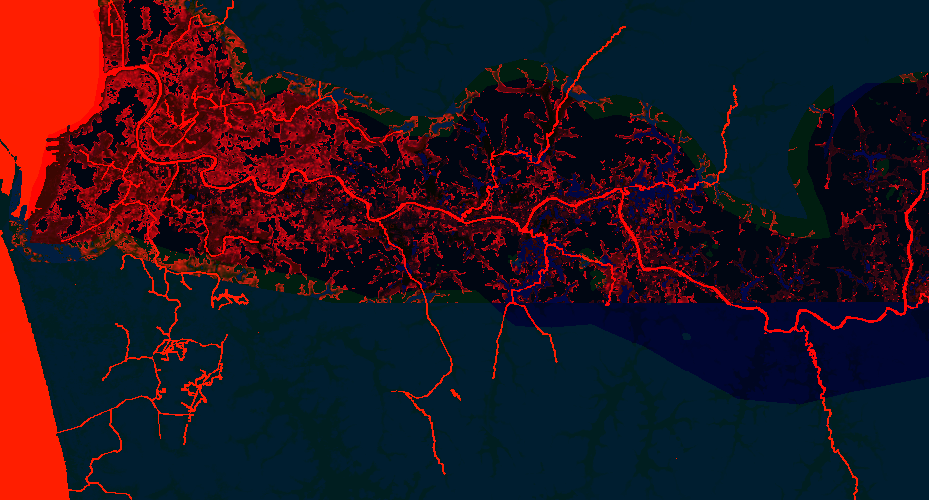
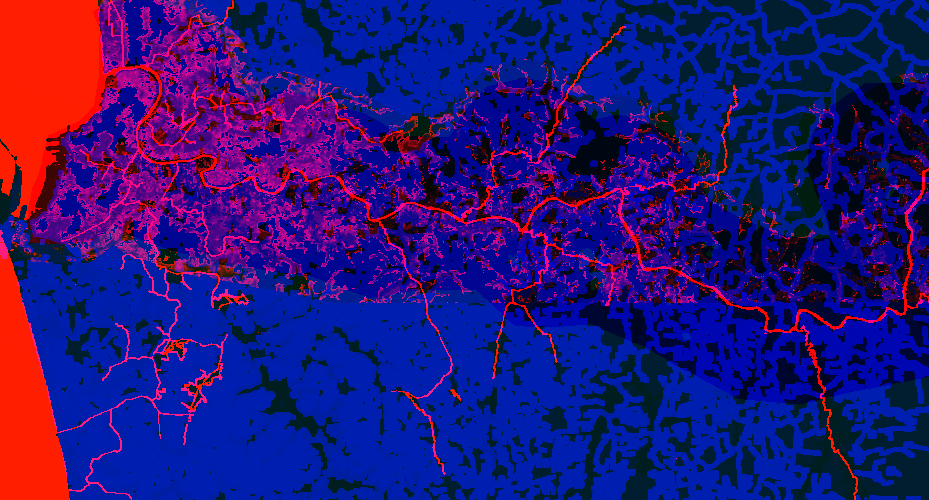
Flood test map: water you can see on buildings, and an estimated depth on tap. Why: the owner wants to see the water line on houses when he zooms in. From zoom 15.5 each flooded 30 m cell gets a translucent blue block whose height is the estimated depth (so a 5 m house stands in water up to its grou

diff --git a/app/[lang]/lab/flood-3d/Flood3dMap.tsx b/app/[lang]/lab/flood-3d/Flood3dMap.tsx
@@ -10,6 +10,7 @@ import { loadBaseStyle } from "./mapStyle";
 import { GLASS, ICON_BTN, Seg, SectionTitle, SwitchRow } from "./ui";
 import { makeT, type Lang } from "./strings";
 import { ReplayCard, replayTime, type ReplayData } from "./Replay";
+import { depthM, depthExpr, wetColorExpr } from "./depth";
 import { ReportPanel, type CellInfo, type RepPos } from "./ReportPanel";
 import { chanceClass, gaugeSpread, hanwellaMToNagFt, pWet, type Calibration, type Chance } from "./chance";
 
@@ -59,7 +60,8 @@ export default function Flood3dMap({ towns = [], gauges = [], lang = "en" }: { t
   const box = useRef<HTMLDivElement>(null);
   const mapRef = useRef<MlMap | null>(null);
   const popRef = useRef<Popup | null>(null);
-  const grid = useRef<{ L: Float32Array; hw: Float32Array; cls: Uint8Array; band: Uint8Array; river: Uint8Array; unc: Uint8Array; wet: Uint8Array; w: number; h: number } | null>(null);
+  const cellsShown = useRef(false);
+  const grid = useRef<{ L: Float32Array; hw: Float32Array; cls: Uint8Array; band: Uint8Array; river: Uint8Array; unc: Uint8Array; wet: Uint8Array; built: Uint8Array; w: number; h: number } | null>(null);
   const meta = useRef<Meta | null>(null);
   const cv = useRef<{ out: HTMLCanvasElement; img: ImageData; lut: Uint8ClampedArray } | null>(null);
   const up = useRef<{ W2: number; H2: number; L2: Float32Array; hw2: Uint8Array; fl: Uint8Array; cls2: Uint8Array; band2: Uint8Array } | null>(null);
@@ -68,6 +70,8 @@ export default function Flood3dMap({ towns = [], gauges = [], lang = "en" }: { t
   const roadsRef = useRef(true);
   const addLocalRef = useRef<(() => void) | null>(null);
   const paintRoadsRef = useRef<((lv: number) => void) | null>(null);
+  const paintDepthRef = useRef<((lv: number) => void) | null>(null);
+  const refreshCellsRef = useRef<(() => void) | null>(null);
 
   const [ready, setReady] = useState(false);
   // Full screen: the browser's Fullscreen API where it exists (desktop, Android); a fixed full-viewport layer otherwise (iPhone Safari
@@ -251,6 +255,33 @@ export default function Flood3dMap({ towns = [], gauges = [], lang = "en" }: { t
   }, []);
 
   useEffect(() => { paintRoadsRef.current = paintRoads; });
+  const paintDepth = useCallback((lv: number) => {
+    const map = mapRef.current;
+    if (!map || !map.getLayer("f3d-depth")) return;
+    map.setPaintProperty("f3d-depth", "fill-extrusion-height", depthExpr(lv) as never);
+    map.setPaintProperty("f3d-depth", "fill-extrusion-color", wetColorExpr(lv) as never);
+  }, []);
+  useEffect(() => { paintDepthRef.current = paintDepth; });
+  // the cells under the view (grid cells that can flood at all), rebuilt after each move at street zoom
+  const refreshCells = useCallback(() => {
+    const map = mapRef.current, g = grid.current, m = meta.current;
+    const src = map?.getSource("f3d-cells") as GeoJSONSource | undefined;
+    if (!map || !g || !m || !src) return;
+    if (map.getZoom() < 15.5) { if (cellsShown.current) { src.setData({ type: "FeatureCollection", features: [] }); cellsShown.current = false; } return; }
+    const b = map.getBounds(), padX = (b.getEast() - b.getWest()) * 0.25, padY = (b.getNorth() - b.getSouth()) * 0.25, deg = m.png.deg;
+    const x0 = Math.max(0, Math.floor((b.getWest() - padX - m.png.west) / deg)), x1 = Math.min(g.w - 1, Math.floor((b.getEast() + padX - m.png.west) / deg));
+    const y0 = Math.max(0, Math.floor((m.png.north - (b.getNorth() + padY)) / deg)), y1 = Math.min(g.h - 1, Math.floor((m.png.north - (b.getSouth() - padY)) / deg));
+    const feats: unknown[] = [];
+    for (let y = y0; y <= y1 && feats.length < 9000; y++) for (let x = x0; x <= x1; x++) {
+      const i = y * g.w + x, L = g.L[i];
+      if (g.river[i] || g.unc[i] || g.wet[i] || !Number.isFinite(L) || L > 12) continue;
+      const w = m.png.west + x * deg, n = m.png.north - y * deg, e = w + deg, so = n - deg;
+      feats.push({ type: "Feature", properties: { L: Math.round(L * 10) / 10, b: g.built[i] }, geometry: { type: "Polygon", coordinates: [[[w, n], [e, n], [e, so], [w, so], [w, n]]] } });
+    }
+    cellsShown.current = true;
+    src.setData({ type: "FeatureCollection", features: feats } as never);
+  }, []);
+  useEffect(() => { refreshCellsRef.current = refreshCells; });
   // ---- animate to the new level (smooth rise / fall), redraw when other layers change
   useEffect(() => {
     if (!ready) return;
@@ -259,12 +290,12 @@ export default function Flood3dMap({ towns = [], gauges = [], lang = "en" }: { t
     const step = (t: number) => {
       const k = dur ? Math.min(1, (t - t0) / dur) : 1, e = k < 0.5 ? 2 * k * k : 1 - Math.pow(-2 * k + 2, 2) / 2;
       shown.current = from + (to - from) * e;
-      draw(shown.current); paintRoads(shown.current);
+      draw(shown.current); paintRoads(shown.current); paintDepth(shown.current);
       if (k < 1) raf.current = requestAnimationFrame(step);
     };
     raf.current = requestAnimationFrame(step);
     return () => cancelAnimationFrame(raf.current);
-  }, [ready, level, draw, paintRoads]);
+  }, [ready, level, draw, paintRoads, paintDepth]);
 
   // ---- layer toggles
   useEffect(() => { roadsRef.current = roadsOn; });
@@ -273,7 +304,9 @@ export default function Flood3dMap({ towns = [], gauges = [], lang = "en" }: { t
     if (!ready || !map) return;
     const vis = (id: string, on: boolean) => map.getLayer(id) && map.setLayoutProperty(id, "visibility", on ? "visible" : "none");
     vis("f3d-water", waterOn); vis("roads-main", roadsOn); vis("roads-local", roadsOn);
-  }, [ready, roadsOn, waterOn]);
+    vis("f3d-depth", waterOn && !chanceOn && !plain && !order); // the 3D depth only goes with the plain blue water, not the chance / elevation-band / fills-first views
+    if (ready) refreshCellsRef.current?.();
+  }, [ready, roadsOn, waterOn, chanceOn, plain, order]);
   useEffect(() => {
     const map = mapRef.current;
     if (!ready || !map) return;
@@ -560,6 +593,12 @@ export default function Flood3dMap({ towns = [], gauges = [], lang = "en" }: { t
             paintRoadsRef.current?.(shown.current);
           };
           addLocalRef.current = addLocal; addLocal();
+          // water standing on the ground in 3D: one translucent blue block per 30 m cell (height = estimated depth, see depth.ts), only from zoom 15.5 and only for the
+          // cells in view; it sits over the basemap's buildings so the water line shows on them. The cells are rebuilt after each move (refreshCellsRef), the level only
+          // changes the paint expressions.
+          map.addSource("f3d-cells", { type: "geojson", data: { type: "FeatureCollection", features: [] } });
+          map.addLayer({ id: "f3d-depth", type: "fill-extrusion", source: "f3d-cells", minzoom: 15.5, paint: { "fill-extrusion-color": wetColorExpr(shown.current) as never, "fill-extrusion-height": depthExpr(shown.current) as never, "fill-extrusion-base": 0, "fill-extrusion-opacity": 0.5, "fill-extrusion-vertical-gradient": false } }, before);
+          map.on("moveend", () => refreshCellsRef.current?.());
           // 3D buildings only from street level: keeps the first paint light on phones
           if (map.getLayer("building-3d")) map.setLayerZoomRange("building-3d", 15, 24);
           const empty = { type: "FeatureCollection" as const, features: [] };
@@ -730,6 +769,14 @@ export default function Flood3dMap({ towns = [], gauges = [], lang = "en" }: { t
           add(tr("Chance of water here in the next 6 hours: {w}.", { w: word[c.cls] }));
           add(nag.trend ? tr("River now {ft} ft and {trend}.", { ft: f1(st.level), trend: tr(nag.trend) }) : tr("River now {ft} ft", { ft: f1(st.level) }));
         } else add(L <= st.level ? tr("At {ft} ft this spot would be under water.", { ft: f1(st.level) }) : tr("At {ft} ft this spot would be dry.", { ft: f1(st.level) }));
+        // how deep (an estimate, see depth.ts), tied to the replay time, the live reading or the chosen level
+        const dm = depthM(st.level, L, !!g.built[i]);
+        if (dm > 0.05) {
+          const ftw = Math.max(1, Math.round((dm / 0.3048) * 2) / 2);
+          const when = replayRef.current && rp ? replayTime(rp, rpI, lang) : st.isLive && nag?.hourlyAt ? clock(nag.hourlyAt) : "";
+          add(when ? tr("About {ft} ft of water here at {when} (estimate).", { ft: String(ftw), when }) : tr("About {ft} ft of water here with the river at {lv} ft (estimate).", { ft: String(ftw), lv: f1(st.level) }), true);
+          add(tr("Rough guide only: the depth in streets between houses is hard to see from space."));
+        }
       }
     }
     const rb = document.createElement("button");
@@ -1087,12 +1134,12 @@ async function loadGrid() {
   const x = c.getContext("2d", { willReadFrequently: true })!; x.drawImage(img, 0, 0);
   const d = x.getImageData(0, 0, c.width, c.height).data;
   const n = c.width * c.height;
-  const L = new Float32Array(n), hw = new Float32Array(n), cls = new Uint8Array(n), band = new Uint8Array(n), river = new Uint8Array(n), unc = new Uint8Array(n), wet = new Uint8Array(n);
+  const L = new Float32Array(n), hw = new Float32Array(n), cls = new Uint8Array(n), band = new Uint8Array(n), river = new Uint8Array(n), unc = new Uint8Array(n), wet = new Uint8Array(n), built = new Uint8Array(n);
   for (let i = 0; i < n; i++) {
     const r = d[i * 4], g = d[i * 4 + 1], b = d[i * 4 + 2];
     river[i] = r === 255 ? 1 : 0;
     L[i] = r === 0 || r === 255 ? Infinity : (r - 1) / PX.step + PX.lo;
-    hw[i] = g / 10; cls[i] = b & 3; band[i] = (b >> 2) & 7; unc[i] = (b >> 5) & 1; wet[i] = (b >> 6) & 1;
+    hw[i] = g / 10; cls[i] = b & 3; band[i] = (b >> 2) & 7; unc[i] = (b >> 5) & 1; wet[i] = (b >> 6) & 1; built[i] = (b >> 7) & 1;
   }
-  return { L, hw, cls, band, river, unc, wet, w: c.width, h: c.height };
+  return { L, hw, cls, band, river, unc, wet, built, w: c.width, h: c.height };
 }

diff --git a/app/[lang]/lab/flood-3d/strings.ts b/app/[lang]/lab/flood-3d/strings.ts
@@ -176,6 +176,9 @@ const SI: Record<string, string> = {
   "Finding your location took too long. Try again near a window or with Wi-Fi on.": "ඔබේ ස්ථානය සෙවීමට වැඩි කාලයක් ගියා. කවුළුවක් අසල හෝ Wi-Fi සක්රියව නැවත උත්සාහ කරන්න.",
   "We couldn't get your exact location. Your connection looks like {city}, which is outside the covered area (Kelani corridor).": "ඔබේ නිශ්චිත ස්ථානය ලබාගත නොහැකි විය. ඔබේ සම්බන්ධතාව {city} ලෙස පෙනේ; එය ආවරණය වන ප්රදේශයෙන් (කැලණි ගං ඝාණ්ඩය) පිටත ය.",
   "We couldn't get your exact location, so we moved to {city} (approximate). Tap your street to check it.": "ඔබේ නිශ්චිත ස්ථානය ලබාගත නොහැකි වූ නිසා අපි {city} (ආසන්න) වෙත සිතියම ගෙන ගියෙමු. ඔබේ වීදිය ඔබා පරීක්ෂා කරන්න.",
+  "About {ft} ft of water here at {when} (estimate).": "{when} වන විට මෙහි ජලය අඩි {ft} ක් පමණ (ඇස්තමේන්තුවක්).",
+  "About {ft} ft of water here with the river at {lv} ft (estimate).": "ගඟ අඩි {lv} දී මෙහි ජලය අඩි {ft} ක් පමණ (ඇස්තමේන්තුවක්).",
+  "Rough guide only: the depth in streets between houses is hard to see from space.": "දළ මඟපෙන්වීමක් පමණි: ගෙවල් අතර වීදිවල ගැඹුර අභ්යවකාශයෙන් බැලීමට අපහසුය.",
   "You're outside the covered area (Kelani corridor), about {km} km from Kelaniya.": "ඔබ ආවරණය වන ප්රදේශයෙන් (කැලණි ගං ඝාණ්ඩය) පිටත සිටී, කැලණියේ සිට කි.මී. {km} ක් පමණ.",
   "Test map": "පරීක්ෂණ සිතියම",
   "Layers": "ස්ථර",
@@ -382,6 +385,9 @@ const TA: Record<string, string> = {
   "Finding your location took too long. Try again near a window or with Wi-Fi on.": "உங்கள் இருப்பிடத்தைக் கண்டறிய அதிக நேரம் ஆனது. ஜன்னல் அருகில் அல்லது Wi-Fi இயக்கத்தில் மீண்டும் முயலுங்கள்.",
   "We couldn't get your exact location. Your connection looks like {city}, which is outside the covered area (Kelani corridor).": "உங்கள் சரியான இடத்தைப் பெற முடியவில்லை. உங்கள் இணைப்பு {city} போல் தெரிகிறது; அது உள்ளடக்கப்பட்ட பகுதிக்கு (கெலனி ஆற்றுத் தாழ்வாரம்) வெளியே உள்ளது.",
   "We couldn't get your exact location, so we moved to {city} (approximate). Tap your street to check it.": "உங்கள் சரியான இடத்தைப் பெற முடியாததால் வரைபடத்தை {city} (தோராயமாக) க்கு நகர்த்தினோம். உங்கள் தெருவைத் தட்டிச் சரிபாருங்கள்.",
+  "About {ft} ft of water here at {when} (estimate).": "{when} அன்று இங்கே சுமார் {ft} அடி தண்ணீர் (மதிப்பீடு).",
+  "About {ft} ft of water here with the river at {lv} ft (estimate).": "ஆறு {lv} அடியில் இருக்கும்போது இங்கே சுமார் {ft} அடி தண்ணீர் (மதிப்பீடு).",
+  "Rough guide only: the depth in streets between houses is hard to see from space.": "தோராய வழிகாட்டி மட்டுமே: வீடுகளுக்கு இடையிலான தெருக்களில் ஆழத்தை விண்வெளியிலிருந்து பார்ப்பது கடினம்.",
   "You're outside the covered area (Kelani corridor), about {km} km from Kelaniya.": "நீங்கள் உள்ளடக்கப்பட்ட பகுதிக்கு (கெலனி ஆற்றுத் தாழ்வாரம்) வெளியே உள்ளீர்கள், கெலனியாவிலிருந்து சுமார் {km} கி.மீ.",
   "Test map": "சோதனை வரைபடம்",
   "Layers": "அடுக்குகள்",

diff --git a/app/[lang]/lab/flood-3d/depth.ts b/app/[lang]/lab/flood-3d/depth.ts
@@ -1,0 +1,27 @@
+// Water depth on the ground for the 3D water layer and the tap note ("About X ft of water here"). An ESTIMATE, calibrated on a handful of reported depths
+// from Cyclone Ditwah (see scripts/flood3d and the private depth table): depth = rise of the river since the cell's own flood level, plus an extra offset in
+// settled cells. Why the offset: the satellite flood maps only see water in the open, so in housing a cell is first marked wet when its streets are already
+// deep, and the 30 m elevation (GLO-30) reads roof height in housing, so the real ground is lower than the model's. Fitted on reports (Welivita, Kaduwela,
+// Biyagama, Malwana: 1.6 / 1.35 / 2.3 / 1.9 m above the model, mean 1.8 m) and checked on a held-out spot (predicted within 0.1 m).
+export const FT = 0.3048;
+export const SETTLED_OFFSET_M = 1.8;   // extra depth in settled cells once the water is a foot above the cell's flood level
+export const OPEN_OFFSET_M = 0.3;      // open ground: the depth at which a satellite first sees it wet
+const RAMP_SETTLED_FT = 1.0, RAMP_OPEN_FT = 0.3;
+
+/** Depth in metres at a cell whose flood level is L (ft at Nagalagam Street) when the river is at lv (ft). 0 = dry. */
+export function depthM(lv: number, L: number, settled: boolean): number {
+  const d = lv - L;
+  if (!(d > 0) || !Number.isFinite(L)) return 0;
+  return (settled ? SETTLED_OFFSET_M * Math.min(1, d / RAMP_SETTLED_FT) : OPEN_OFFSET_M * Math.min(1, d / RAMP_OPEN_FT)) + FT * d;
+}
+
+/** The same formula as a MapLibre expression over the cell properties L (ft) and b (1 = settled), for a given river level. */
+export function depthExpr(lv: number): unknown[] {
+  const d = ["-", lv, ["get", "L"]];
+  return ["case", [">", d, 0],
+    ["+", ["*", ["case", ["==", ["get", "b"], 1], SETTLED_OFFSET_M, OPEN_OFFSET_M], ["min", 1, ["/", d, ["case", ["==", ["get", "b"], 1], RAMP_SETTLED_FT, RAMP_OPEN_FT]]]], ["*", FT, d]],
+    0];
+}
+export function wetColorExpr(lv: number): unknown[] {
+  return ["case", [">", ["-", lv, ["get", "L"]], 0], "rgba(40,120,210,1)", "rgba(40,120,210,0)"];
+}

diff --git a/scripts/flood3d/prep.py b/scripts/flood3d/prep.py
@@ -337,7 +337,15 @@ R = np.where(valid & (Lft < 25), np.clip(np.round((Lft - 2) * 10) + 1, 1, 250), 
 R = np.where(DRAIN | sea, 255, R)
 Rw = to_wgs(R, 0); Gw = to_wgs(np.clip(np.round(half * 10), 0, 250), 0); UNC = (LAND & ~COVER & ~DRAIN)
 WETL = (valid & (Lft <= WET_FT)) & ~DRAIN
-Bw = to_wgs(cls + 4 * BAND + 32 * UNC + 64 * WETL, 0)
+# built-up ground: a settled area (local streets within ~75 m of this cell), bit 7 of B. Only used for the depth estimate on buildings (see depth.ts): the
+# satellite sees water in the open much earlier than between houses, and GLO-30 reads roof height in housing, so depth in settled cells gets an extra offset.
+_bm = Image.new("L", (W, H), 0); _bd = ImageDraw.Draw(_bm)
+for e in json.load(open(f"{WORK}/osm_roads.json"))["elements"]:
+    if e["tags"].get("highway") in ("motorway", "trunk", "primary", "secondary") or len(e.get("geometry") or []) < 2: continue
+    _bd.line([px(g_["lon"], g_["lat"]) for g_ in e["geometry"]], fill=255, width=1)
+BUILT = ndi.uniform_filter((np.array(_bm) > 0).astype(float), 5) >= 0.03
+print("built-up share of land", float(BUILT[LAND].mean()))
+Bw = to_wgs(cls + 4 * BAND + 32 * UNC + 64 * WETL + 128 * BUILT, 0)
 img = np.stack([Rw, Gw, Bw], -1).astype(np.uint8)
 Image.fromarray(img).save(f"{OUT}/level.webp", "WEBP", lossless=True, quality=100, method=6)   # lossless WebP: 36% smaller than PNG
 print("webp", img.shape, os.path.getsize(f"{OUT}/level.webp"))
@@ -457,7 +465,7 @@ if os.path.exists(f"{WORK}/osm_places.json"):
     print("gazetteer", len(gz), os.path.getsize(f"{OUT}/gazetteer.json"))
 
 json.dump(dict(
-    reports_used=used, cover_bounds=COV_BOUNDS, generated="2026-10-27", grid=dict(rows=H, cols=W, res_m=RES), png=dict(w=gw, h=gh, west=LW, east=LE, south=LS, north=LN, deg=DEG, level="R: 0 none, 255 river/sea, else ft=(R-1)/10+2; G half-width ft*10; B: class(0 extrapolated,1 interpolated,2 observed-bounded)+4*HANDband(0..4)+32*not covered (no calibration here)+64*usually-wet ground (fitted level <= 2.2 ft)"),
+    reports_used=used, cover_bounds=COV_BOUNDS, generated="2026-10-27", grid=dict(rows=H, cols=W, res_m=RES), png=dict(w=gw, h=gh, west=LW, east=LE, south=LS, north=LN, deg=DEG, level="R: 0 none, 255 river/sea, else ft=(R-1)/10+2; G half-width ft*10; B: class(0 extrapolated,1 interpolated,2 observed-bounded)+4*HANDband(0..4)+32*not covered (no calibration here)+64*usually-wet ground (fitted level <= 2.2 ft)+128*settled (local streets nearby: depth estimate only)"),
     drainage=VLAB, minfilter=VSM, variants=variants, events={k: dict(label=v["label"], nag_ft=v["nag_ft"]) for k, v in EV.items()}, extra_bounds={k: dict(label=v["label"], nag_ft=v["nag_ft"]) for k, v in EXTRA.items()},
     zone_offset_m={str(k): round(v, 2) for k, v in CZ.items()}, global_offset_m=round(CG, 2), half_width_ft=HW,
     plain_bands=acc_bands, loeo=LOEO, insample_note='reproduces the two observed maps by construction (bounds clip); not an accuracy figure', insample=insample, reliability_cell_part=rel, chance_calibration=dict(a=CAL[0], b=CAL[1], sd_ft=round(float(np.sqrt(HW['interpolated'] ** 2 / 3)), 2)), ground_truth_points=len(PTS), points_learned=pts_learned, points_plain_bands=pts_plain, points_random_baseline=base),
